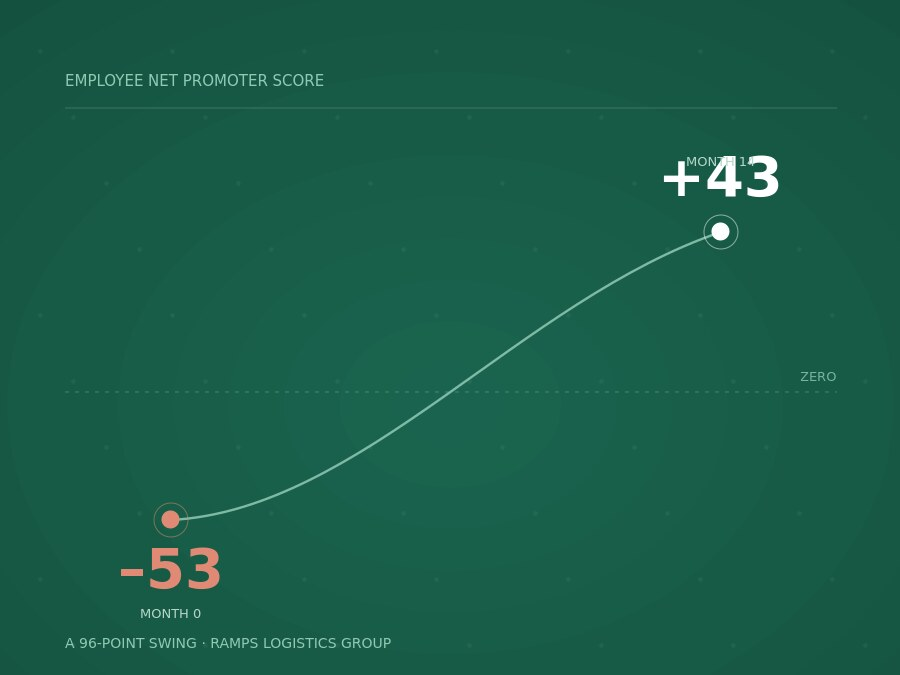
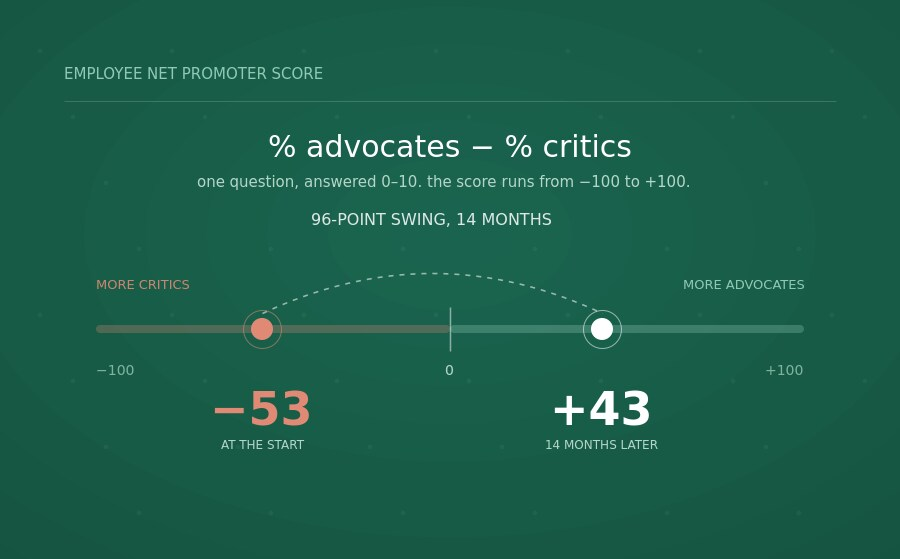
revised files

diff --git a/index.html b/index.html
@@ -3,7 +3,7 @@
 <head>
 <meta charset="utf-8">
 <meta name="viewport" content="width=device-width, initial-scale=1">
-<title>Rae-Anne Richardson — Senior Marketing Strategist</title>
+<title>Rae-Anne Richardson | Senior Marketing Strategist</title>
 <meta name="description" content="Award-winning senior marketing strategist. Go-to-market, brand and communications for companies that move things across borders.">
 <link rel="preconnect" href="https://fonts.googleapis.com">
 <link rel="preconnect" href="https://fonts.gstatic.com" crossorigin>
@@ -111,6 +111,7 @@
   .ix:hover .ix-port,.ix.on .ix-port{color:var(--navy)}
   .ix .ix-name{flex:1;font-family:var(--sans);font-size:.84rem;letter-spacing:0}
   .ix .ix-yr{flex:0 0 auto;color:var(--ink-3);font-size:.66rem}
+  .hint-sm{display:none}
   .hint{font-family:var(--mono);font-size:.66rem;letter-spacing:.13em;text-transform:uppercase;color:var(--ink-3);margin:12px 0 0}
 
   /* ---------- figures ---------- */
@@ -219,6 +220,48 @@
     .pin-label{font-size:14px}
     body{font-size:16px}
   }
+  @media (max-width:640px){
+    .wrap{padding:0 18px}
+    body{font-size:16px;line-height:1.68}
+
+    /* map: scale markers and labels up so they survive being squeezed */
+    .pin-core{r:10}
+    .pin-ring{r:15}
+    .pin-halo{r:16}
+    .pin-hit{r:26}
+    .pin:hover .pin-core,.pin:focus-visible .pin-core,.pin.on .pin-core{r:13}
+    .pin-label{font-size:34px;letter-spacing:.05em}
+    .dot{r:3}
+    .arc{stroke-width:2;stroke-dasharray:5 9}
+
+    .atlas-bar,.atlas-read{padding:11px 14px;font-size:.66rem;line-height:1.7}
+    .index{padding:4px 14px 10px;grid-template-columns:1fr}
+    .ix{flex-wrap:wrap;gap:2px 10px;padding:13px 2px}
+    .ix .ix-port{flex:0 0 100%;font-size:.62rem}
+    .ix .ix-name{flex:1 1 auto;font-size:.9rem}
+
+    .hint-lg{display:none}
+    .hint-sm{display:inline}
+    .figs{gap:26px 20px;margin-top:52px;padding:30px 0}
+    .fig .n{font-size:1.75rem}
+
+    .sec{padding:52px 0 0}
+    .sec > .sub{font-size:1.22rem;margin-bottom:28px}
+    .case{padding:28px 0;gap:20px}
+    .case h3{font-size:1.42rem}
+    .case p,.case li{max-width:none}
+    .plate{max-width:100%}
+
+    .end{margin-top:64px;padding:40px 0 24px}
+    .btns{gap:9px}
+    .btn{flex:1 1 100%;text-align:center;padding:15px 18px}
+    .foot{padding:26px 0 40px}
+  }
+  @media (max-width:380px){
+    .wrap{padding:0 14px}
+    .pin-label{font-size:30px}
+    .fig .n{font-size:1.6rem}
+  }
   @media (prefers-reduced-motion:reduce){
     html{scroll-behavior:auto}
     *{transition:none!important;animation:none!important}
@@ -231,7 +274,7 @@
   <header class="mast">
     <p class="eyebrow">Senior Marketing Strategist</p>
     <h1>Rae-Anne Richardson</h1>
-    <p class="lede">Award-winning integrated marketing, communications and go-to-market strategy across international markets. I turn insight-led planning into work that moves commercial numbers — for consumer giants, and for the companies moving cargo across borders.</p>
+    <p class="lede">Award-winning integrated marketing, communications and go-to-market strategy across international markets. I turn insight-led planning into work that moves commercial numbers, for consumer giants and for the companies moving cargo across borders.</p>
     <ul class="meta">
       <li><a href="mailto:[email redacted]">[email redacted]</a></li>
       <li>[phone redacted]</li>
@@ -255,7 +298,7 @@
     </div>
     <div class="index" id="index"></div>
   </section>
-  <p class="hint">Tap a marker, or scroll for the full case studies</p>
+  <p class="hint"><span class="hint-lg">Tap a marker, or scroll for the full case studies</span><span class="hint-sm">Tap a port in the list below, or scroll for the full case studies</span></p>
 
   <div class="figs">
     <div class="fig"><span class="n">US$9M</span><span class="l">First-year revenue<br>new product launch</span></div>
@@ -276,20 +319,20 @@
     <p class="sub">How I work.</p>
     <div class="cols">
       <div>
-        <p>I came up through advertising — copywriting, creative pods, brand campaigns for Diageo, Coca-Cola, Unilever and UNICEF — and then took that craft into energy and logistics, where the buyer is technical, the sales cycle is long, and the audience sits across a dozen jurisdictions. The combination is the point. A campaign has to do more than look good: it has to open a market, shorten a pipeline, or make a sales team faster.</p>
-        <p>In practice that means running integrated programmes end to end — go-to-market strategy, brand positioning, PR, performance marketing and sales enablement — with a measurement layer attached from the start. I currently lead a cross-functional team of five specialists across six international offices, govern a US$250K annual media budget, and write on AI and global trade for Forbes.</p>
+        <p>I came up through advertising, writing copy and running creative pods on brand campaigns for Diageo, Coca-Cola, Unilever and UNICEF, then took that craft into energy and logistics, where the buyer is technical, the sales cycle is long, and the audience sits across a dozen jurisdictions. The combination is the point. A campaign has to do more than look good: it has to open a market, shorten a pipeline, or make a sales team faster.</p>
+        <p>In practice that means running integrated programmes end to end, covering go-to-market strategy, brand positioning, PR, performance marketing and sales enablement, with a measurement layer attached from the start. I currently lead a cross-functional team of five specialists across six international offices, govern a US$250K annual media budget, and write on AI and global trade for Forbes.</p>
         <p>Roughly five years agency-side and five in-house, which means I can write the line and defend the media plan. Three advertising awards came from the creative work; US$9M in first-year revenue and a US$300M pipeline came from the commercial side. I don't think those are separate skills.</p>
         <div class="tags">
-          <span class="tag">Go-to-market strategy</span><span class="tag">Brand positioning</span><span class="tag">Public relations</span><span class="tag">Media strategy</span><span class="tag">SEO / SEM / CRO</span><span class="tag">Paid media</span><span class="tag">Sales enablement</span><span class="tag">Marketing analytics</span><span class="tag">AI-driven marketing</span><span class="tag">Executive stakeholder management</span>
+          <span class="tag">Go-to-market strategy</span><span class="tag">Brand positioning</span><span class="tag">Public relations</span><span class="tag">Crisis &amp; regulatory communications</span><span class="tag">Media strategy</span><span class="tag">SEO / SEM / CRO</span><span class="tag">Paid media</span><span class="tag">Sales enablement</span><span class="tag">Marketing analytics</span><span class="tag">AI-driven marketing</span><span class="tag">Executive stakeholder management</span>
         </div>
       </div>
       <div>
         <h4>Recognition</h4>
         <ul class="list">
-          <li>Silver ADDY, American Advertising Awards — 2026</li>
-          <li>Double Silver ADDY, American Advertising Awards — 2022</li>
-          <li>Trinidad &amp; Tobago Advertising Award — 2020</li>
-          <li>Forbes Communications Council — member</li>
+          <li>Silver ADDY, American Advertising Awards, 2026</li>
+          <li>Double Silver ADDY, American Advertising Awards, 2022</li>
+          <li>Trinidad &amp; Tobago Advertising Award, 2020</li>
+          <li>Forbes Communications Council member</li>
         </ul>
       </div>
     </div>
@@ -318,7 +361,7 @@
 
   <section class="end">
     <h2>Open to senior marketing roles in the UK.</h2>
-    <p>I'm relocating and would need Skilled Worker sponsorship — happy to talk through timelines. If you're hiring for brand, communications or growth, I'd like to hear about it.</p>
+    <p>I'm relocating and would need Skilled Worker sponsorship, and I'm happy to talk through timelines. If you're hiring for brand, communications or growth, I'd like to hear about it.</p>
     <div class="btns">
       <a class="btn" href="mailto:[email redacted]">Email me</a>
       <a class="btn wa" href="https://wa.me/[phone redacted]" target="_blank" rel="noopener"><svg viewBox="0 0 24 24" aria-hidden="true"><path d="M12.04 2C6.[phone redacted].91c0 [phone redacted].95L2 22l5.25-1.38a9.[phone redacted].22h.01c5.[phone redacted].91S17.5 2 12.04 2Zm0 18.15h-.01a8.[phone redacted].15l-.3-.[phone redacted]-.2-.31a8.[phone redacted].38c0-[phone redacted].23a8.[phone redacted].47Zm4.52-6.16c-.25-.12-1.47-.72-1.69-.81-.23-.08-.39-.12-.56.13-.16.24-.64.8-.78.97-.15.16-.29.18-.54.06-.25-.13-1.05-.39-2-1.23-.74-.[phone redacted]-.15-.25-.02-.38.11-.5.11-.11.25-.29.37-.44.13-.15.17-.25.25-.42.09-.16.04-.31-.02-.43-.06-.13-.56-1.35-.77-1.84-.2-.49-.4-.42-.55-.43h-.47c-.16 0-.43.06-.65.31-.23.25-.86.84-.86 2.05s.[phone redacted].54c.[phone redacted].[phone redacted].[phone redacted]-.07 1.47-.[phone redacted]-.[phone redacted]-.06-.11-.22-.17-.47-.29Z"/></svg>WhatsApp me</a>
@@ -390,9 +433,9 @@ const PORTS = [
     year:"2025 – 2026", kick:"Silver ADDY · Specialty Advertising Campaign",
     title:"CUBBY Cargo",
     img:"cubby.jpg", cap:"Cubby, the campaign mascot for the Caribbean’s first AI-enabled freight tool.",
-    body:"CUBBY — short for Container Unit Booking Buddy — is the Caribbean's first AI-enabled freight tool, built in Trinidad and run through WhatsApp: quote, book and track a container from China, India, the US or Brazil in about three minutes. My job was to make a piece of regional logistics infrastructure feel like something a small importer would actually want to use. We built a purple octopus and gave the category a mascot it had never had.",
+    body:"CUBBY, short for Container Unit Booking Buddy, is the Caribbean's first AI-enabled freight tool, built in Trinidad and run through WhatsApp: quote, book and track a container from China, India, the US or Brazil in about three minutes. My job was to make a piece of regional logistics infrastructure feel like something a small importer would actually want to use. We built a purple octopus and gave the category a mascot it had never had.",
     points:["Drove <strong>US$9M in first-year revenue</strong> through product campaigns across four markets",
-            "<strong>Silver ADDY, 2026</strong> — Ramps' first year entering, and the only non-agency winner that year",
+            "<strong>Silver ADDY, 2026</strong> in Ramps' first year entering, and the only non-agency winner that year",
             "Conceived and executed entirely in-house: branding, concept, booth design, social and PR",
             "Positioned an enterprise freight platform to SMEs, entrepreneurs and industrial importers",
             "Proved an in-house team could compete with the region's top agencies"] },
@@ -402,18 +445,29 @@ const PORTS = [
     year:"3 consecutive years", kick:"Offshore Technology Conference · NRG Park",
     title:"Trinidad & Tobago National Pavilion",
     img:"otc.jpg", cap:"The T&amp;T Energy Pavilion at OTC Houston, as covered by the Trinidad Guardian.",
-    body:"OTC is the largest offshore energy gathering in the world, and in 2024 Trinidad & Tobago had a national pavilion there for the first time — powered by the National Energy Corporation and coordinated by Ramps. I conceived, directed and executed the PR, marketing and global content strategy across three consecutive years, based in Houston for each.",
+    body:"OTC is the largest offshore energy gathering in the world, and in 2024 Trinidad & Tobago had a national pavilion there for the first time, powered by the National Energy Corporation and coordinated by Ramps. I conceived, directed and executed the PR, marketing and global content strategy across three consecutive years, based in Houston for each.",
     points:["Reached <strong>80,000+ international delegates</strong> across three years",
             "One of only 14 international country pavilions at the conference",
             "Positioned a national delegation of energy service companies to Gulf of Mexico, Caribbean and Americas decision-makers",
             "Ran real-time media coverage and content production on the floor, feeding business development"] },
+
+  { id:"enps", city:"Port of Spain", country:"Trinidad & Tobago \u00b7 Ramps Logistics Group", lat:10.65, lon:-61.51,
+    sharesPin:"cubby",
+    year:"14-month programme", kick:"Employee NPS \u2212\u200953 \u2192 +43",
+    title:"Rebuilding belief from the inside",
+    img:"enps.jpg", cap:"How eNPS works, and where the score moved over fourteen months.",
+    body:"The group had come through a bruising period in one of its growth markets \u2014 regulatory proceedings played out in public, and clients were being advised against working with us while it ran. The company was cleared in full. Internally, the damage outlasted the headlines: employee net promoter score sat at \u221253. A company cannot sell a story its own people no longer believe, so I built and rolled out a digital internal communications platform across the group\u2019s offices, treating colleagues as an audience with their own insight, channels and measurement rather than as a distribution list.",
+    points:["Employee NPS moved from <strong>\u221253 to +43 in fourteen months</strong> \u2014 a 96-point swing",
+            "Designed and launched a digital internal-communications platform across the group",
+            "Delivered alongside crisis and regulatory communications through the proceedings themselves",
+            "Applied external campaign discipline \u2014 audience insight, cadence, measurement \u2014 to an internal audience"] },
 
   { id:"noble", city:"Georgetown", country:"Guyana", lat:6.80, lon:-58.16,
     dx:12, anchor:"start", ly:14,
     year:"2024 – present", kick:"Noble Corporation · El Dorado Offshore · MATPAL",
     title:"Noble Marine Cadet Scholarship",
     img:"noble.jpg", cap:"Recruitment creative for the inaugural Noble Marine Cadet Scholarship intake.",
-    body:"Guyana is the most active location in the world for Noble's drillships, and the country needs certified marine officers faster than it can train them. The scholarship — a partnership between Noble, El Dorado Offshore and MATPAL Marine Institute — is a full four-year ride: eighteen months in a classroom, eighteen months offshore, and a job at the end. My role was the communications and recruitment marketing that fills it.",
+    body:"Guyana is the most active location in the world for Noble's drillships, and the country needs certified marine officers faster than it can train them. The scholarship , a partnership between Noble, El Dorado Offshore and MATPAL Marine Institute, is a full four-year ride: eighteen months in a classroom, eighteen months offshore, and a job at the end. My role was the communications and recruitment marketing that fills it.",
     points:["Programme scaled from <strong>6 cadets to 20 per year</strong>, valued at over US$100,000 annually",
             "Recruitment outreach taken into technical institutes and regions across Guyana",
             "Positioned a local-content commitment in one of the fastest-growing energy economies in the world",
@@ -430,23 +484,12 @@ const PORTS = [
             "Shortlisted in a field historically dominated by ExxonMobil, GE and Siemens",
             "Positioned as the world\u2019s first AI-driven customs brokerage platform, now used by energy operators in Trinidad and Guyana"] },
 
-  { id:"enps", city:"Port of Spain", country:"Trinidad & Tobago \u00b7 Ramps Logistics Group", lat:10.65, lon:-61.51,
-    sharesPin:"cubby",
-    year:"14-month programme", kick:"Employee NPS \u2212\u200953 \u2192 +43",
-    title:"Rebuilding belief from the inside",
-    img:"enps.jpg", cap:"A 96-point swing in employee net promoter score over fourteen months.",
-    body:"A company cannot sell a story its own people do not believe. Employee net promoter score sat at \u221253 \u2014 the kind of number that surfaces first in retention and service quality, and eventually in the brand itself. I built and rolled out a digital internal communications platform across the group\u2019s offices, treating colleagues as an audience with their own insight, channels and measurement rather than as a distribution list.",
-    points:["Employee NPS moved from <strong>\u221253 to +43 in fourteen months</strong> \u2014 a 96-point swing",
-            "Designed and launched a digital internal-communications platform across the group",
-            "Gave a multi-country, multi-office workforce one consistent channel and voice",
-            "Applied external campaign discipline \u2014 audience insight, cadence, measurement \u2014 to an internal audience"] },
-
   { id:"forbes", city:"New York", country:"Forbes Communications Council", lat:40.71, lon:-74.01,
     dx:12, anchor:"start",
     year:"October 2025", kick:"Forbes · byline",
     title:"Freight Without Friction",
     img:"forbes.jpg", cap:"Published in Forbes, 30 October 2025.",
-    body:"A byline for Forbes on how AI is changing the language of global trade — argued from inside the industry rather than about it. The thesis: technology is the engine of the shift, but communication is the steering wheel, and the Caribbean is a case study in how emerging markets can lead rather than follow.",
+    body:"A byline for Forbes on how AI is changing the language of global trade, argued from inside the industry rather than about it. The thesis: technology is the engine of the shift, but communication is the steering wheel, and the Caribbean is a case study in how emerging markets can lead rather than follow.",
     points:["Published as a Forbes Communications Council member, October 2025",
             "Established subject-matter authority at the intersection of AI, logistics and trade",
             "Part of a thought-leadership programme supporting enterprise business development",
@@ -456,7 +499,7 @@ const PORTS = [
     dx:12, anchor:"start", ly:12,
     year:"2025", kick:"L'Usine Nouvelle · French industrial press",
     title:"Guyana: la naissance fulgurante d'un État pétrolier",
-    img:"usine.jpg", cap:"L’Usine Nouvelle, 13 August 2025 — tier-one placement in the French industrial press.",
+    img:"usine.jpg", cap:"L’Usine Nouvelle, 13 August 2025. Tier-one placement in the French industrial press.",
     body:"A tier-one placement in France's leading industrial title, positioning Guyana's emergence as an oil state for a European industrial and investor readership. It's one of forty-five tier-one placements from a programme built to move share of voice in markets where nobody had heard of us.",
     points:["Part of a programme that grew earned-media presence by <strong>97%</strong>",
             "45 tier-one placements across the US, GB, Caribbean, South America, Asia, Africa and LATAM",
@@ -478,8 +521,8 @@ const PORTS = [
     dx:-12, anchor:"end", ly:-6,
     year:"2020 – 2022", kick:"Diageo · Coca-Cola · Unilever · P&G · UNICEF",
     title:"Global brand campaigns",
-    img:"global.jpg", cap:"Twelve international markets, one hub — multi-market campaign delivery, 2020–2022.",
-    body:"Two years at Caribbean Ideas Synapse, orchestrating a creative and account pod delivering multi-market campaigns for global partners — including London-headquartered Diageo and Unilever. This is where I learned to build one idea that survives twelve different markets.",
+    img:"global.jpg", cap:"Twelve international markets, one hub. Multi-market campaign delivery, 2020–2022.",
+    body:"Two years at Caribbean Ideas Synapse, orchestrating a creative and account pod delivering multi-market campaigns for global partners, including London-headquartered Diageo and Unilever. This is where I learned to build one idea that survives twelve different markets.",
     points:["Campaigns executed across <strong>12 international markets</strong>",
             "25–45% growth in social engagement; 15–30% audience growth in campaign periods",
             "20–30% improvement in cross-market delivery efficiency",
@@ -559,7 +602,7 @@ function lightUp(p, on) {
   const row = document.getElementById("ix-" + p.id);
   if (row) row.classList.toggle("on", on);
   if (on) {
-    rL.innerHTML = `<b>${p.city}</b> — ${p.title}`;
+    rL.innerHTML = `<b>${p.city}</b> \u00b7 ${p.title}`;
     rR.textContent = fmt(p.lat, p.lon) + "  ·  " + p.year;
   } else {
     rL.textContent = "Select a port to open the case study";

diff --git a/README.md b/README.md
@@ -1,48 +1,51 @@
 # Rae-Anne Richardson — Portfolio
 
-Single-page interactive portfolio. Eight campaigns plotted on a world map, with full case studies below.
+Single-page interactive portfolio. Nine campaigns plotted on a world map, with full case studies below.
 
-## Files to upload
+## Files (all must sit at the repository root)
 
 | File | Purpose |
 |---|---|
 | `index.html` | The entire site — HTML, CSS and JS in one file |
+| `CV.pdf` | Linked from the Download CV button |
 | `cubby.jpg` | CUBBY Cargo |
 | `otc.jpg` | Trinidad & Tobago National Pavilion |
+| `enps.jpg` | Rebuilding belief from the inside |
 | `noble.jpg` | Noble Marine Cadet Scholarship |
 | `mawi.jpg` | MAWI |
 | `forbes.jpg` | Freight Without Friction |
 | `usine.jpg` | L'Usine Nouvelle |
 | `republic.jpg` | Take Your Shot to Win |
 | `global.jpg` | Global brand campaigns |
-| `CV.pdf` | **You need to add this** — the Download CV button links to it |
 
-All files must sit in the same folder, at the repository root.
+## Publishing
 
-## Publishing on GitHub Pages
+The repository is named `rae-annerichardson-source.github.io`, so GitHub Pages
+serves it at the root: https://rae-annerichardson-source.github.io/
 
-1. Create a new repository (a name like `portfolio` is fine).
-2. Upload every file above to the repository root.
-3. Go to **Settings → Pages**.
-4. Under *Source*, choose **Deploy from a branch**, select `main` and `/ (root)`, then **Save**.
-5. Wait a minute or two. The site appears at `https://<your-username>.github.io/<repository-name>/`
+Settings → Pages → Source: Deploy from a branch → `main` → `/ (root)`.
 
-For a custom domain, add it under Settings → Pages → Custom domain, then point a CNAME
-record at `<your-username>.github.io` with your domain registrar.
+Changes go live a minute or two after pushing. Hard-refresh (Ctrl/Cmd+Shift+R)
+to get past browser caching, especially for images and the PDF.
 
 ## Editing content
 
-Everything in the case studies is driven by the `PORTS` array inside the `<script>` block in `index.html`:
+Case studies are driven by the `PORTS` array inside the `<script>` block:
 
 - `title`, `kick`, `year` — headings and labels
 - `body` — the paragraph
-- `points` — the bullet list (`<strong>` and links are allowed)
-- `img` / `cap` — image filename and its caption
+- `points` — the bullet list (`<strong>` and links allowed)
+- `img` / `cap` — image filename and caption
 - `lat` / `lon` — map position; leave alone unless the location changes
+- `sharesPin` — set when a campaign shares another entry's map marker
 
-Client and press names live in the `#clients` section of the HTML, not in the script.
+Order in the array sets the order on the page and in the port index.
 
-## Swapping an image
+Client and press names live in the `#clients` section of the HTML, not the script.
 
-Put the new file in this folder (landscape, roughly 4:3, under ~400KB),
-then change `img:"oldfile.jpg"` to `img:"newfile.jpg"` on the matching entry.
+## Notes
+
+- Mobile breakpoints at 900px, 760px, 640px and 380px. On phones the map is a
+  visual anchor and the port index below it is the navigation, because several
+  ports sit only a few pixels apart at that width.
+- Swapping an image: keep the same filename, or update `img:` on the entry.